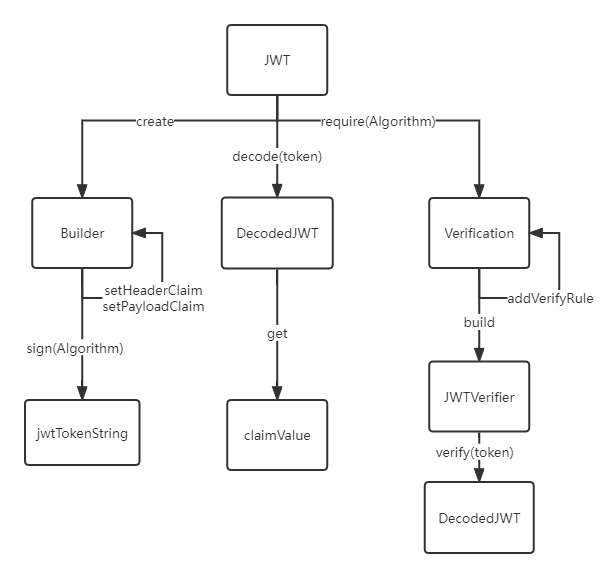
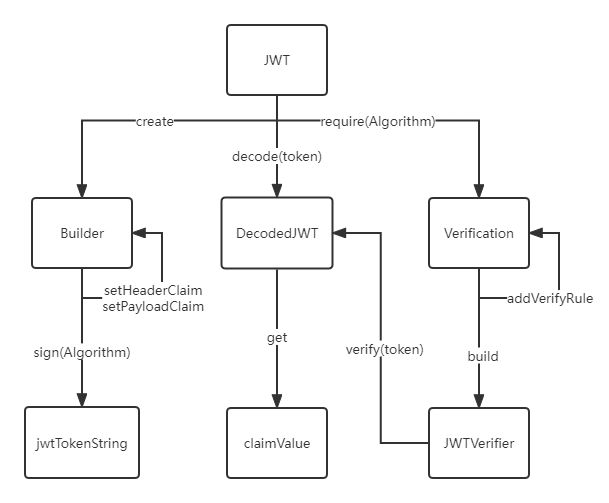
[jwt]: changelog

Changed region(s): [[0.0312, 0.0298, 0.9672, 0.9841], [0.624, 0.4771, 0.6552, 0.6561], [0.4056, 0.8648, 0.4992, 0.8946]]

diff --git a/CHANGELOG.md b/CHANGELOG.md
@@ -1,0 +1,8 @@
+## v0.0.1
+
+提供JSON Wen Token (JWT-RFC7519) 的仓颉语言实现
+
+- 支持JWT构造 (HMAC/RSA/ECDSA签名)
+- 支持JWT解码
+- 支持JWT完整性校验 (HMAC/RSA/ECDSA验签)
+- 支持JWT业务字段校验
